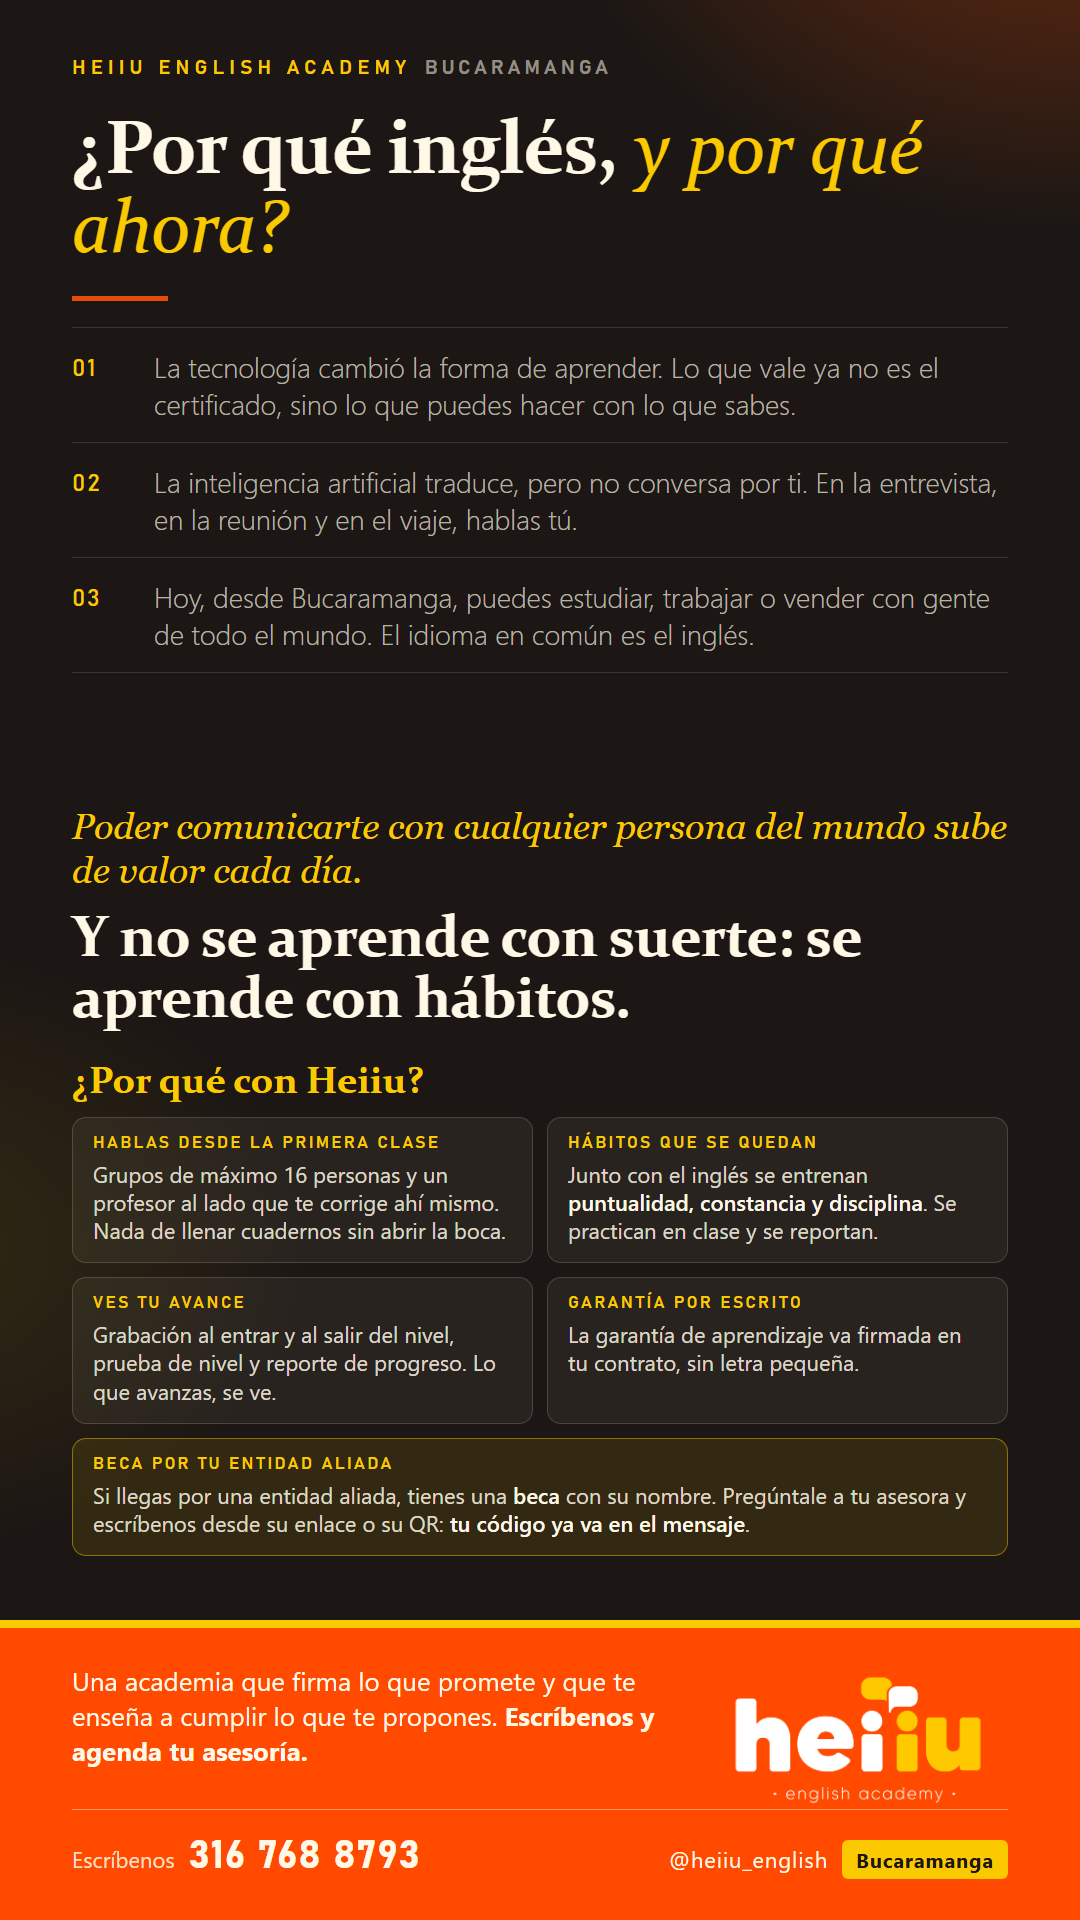
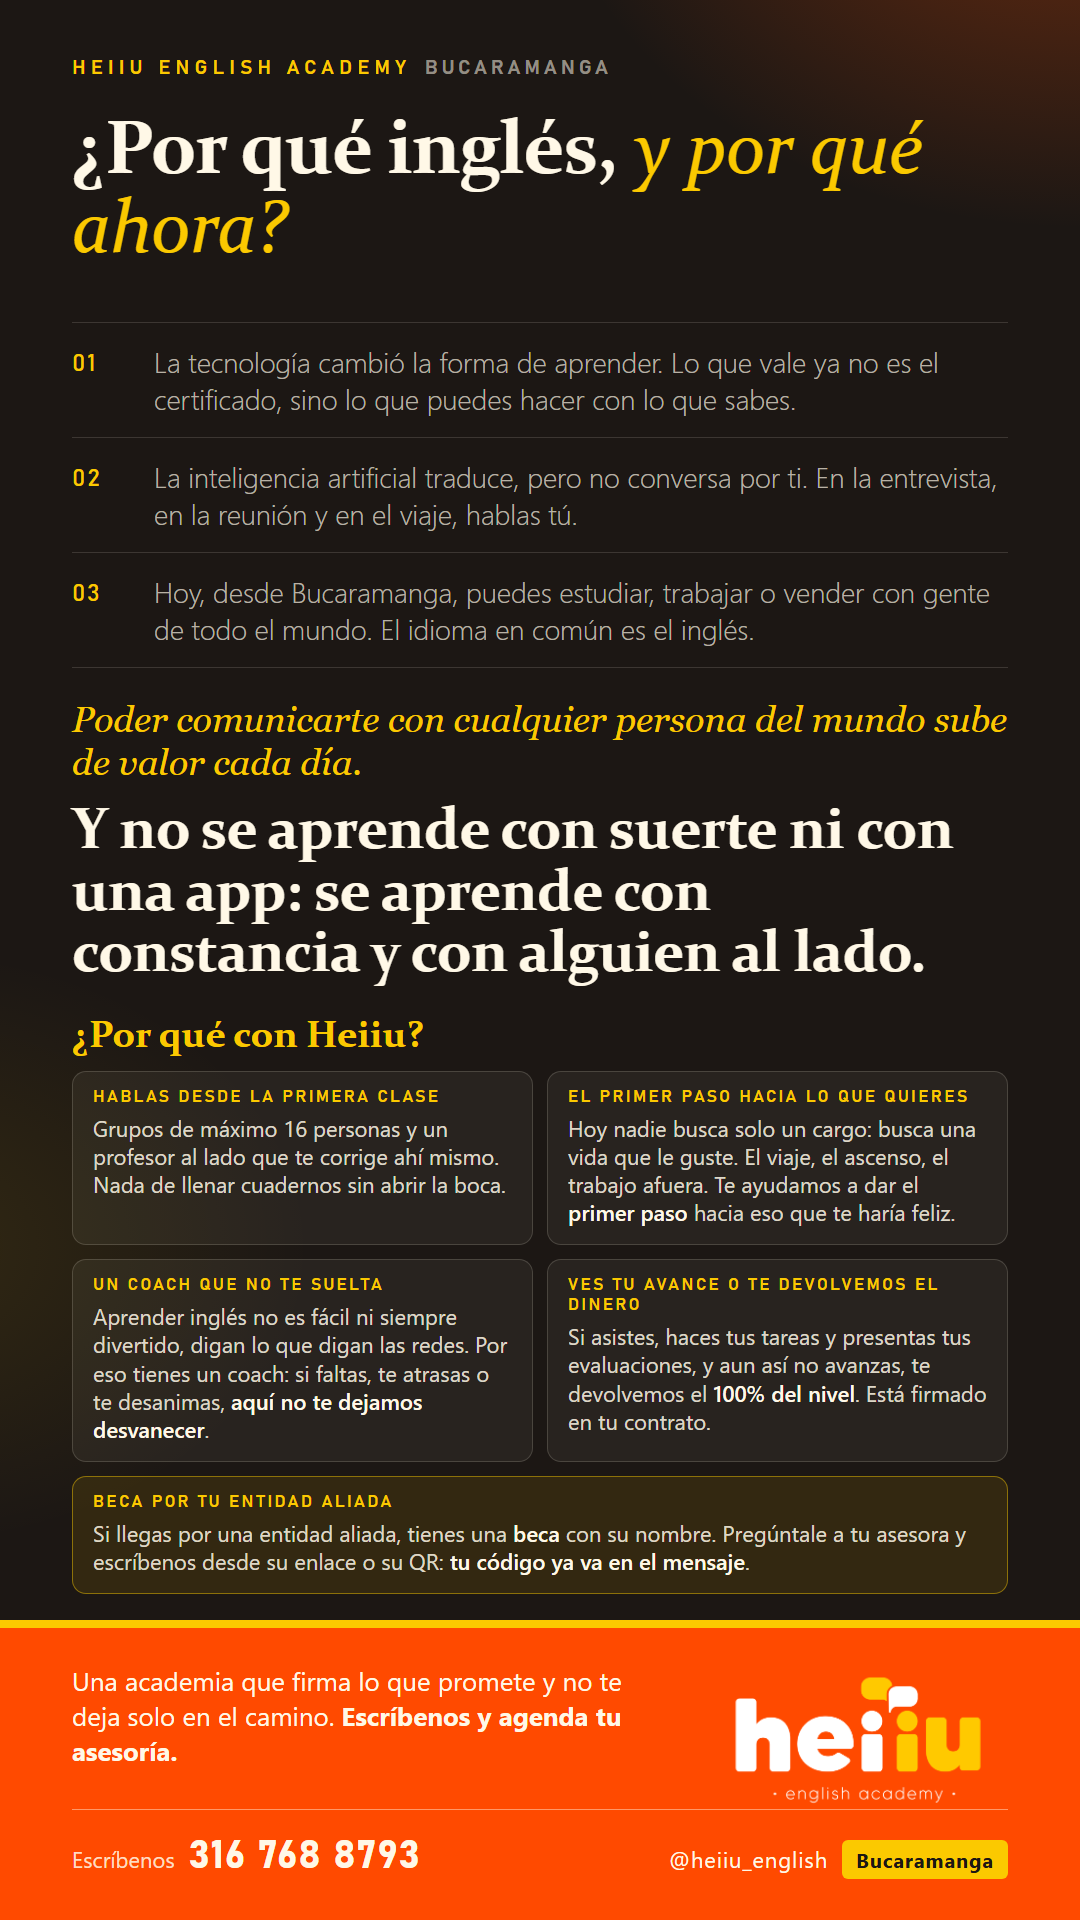
Pieza general asesoras: tarjetas certeras (primer paso hacia lo que quieres, coach que no te suelta, ves tu avance o te devolvemos el dinero segun anexo de garantia v2.3)

diff --git a/generadores/comercial/gen_piezas_conciencia.py b/generadores/comercial/gen_piezas_conciencia.py
@@ -103,14 +103,14 @@ PIEZAS = {
             ('La inteligencia artificial traduce, pero no conversa por ti. En la entrevista, en la reunión y en el viaje, hablas tú.'),
             ('Hoy, desde Bucaramanga, puedes estudiar, trabajar o vender con gente de todo el mundo. El idioma en común es el inglés.')],
         lead='Poder comunicarte con cualquier persona del mundo sube de valor cada día.',
-        big='Y no se aprende con suerte: se aprende con hábitos.',
+        big='Y no se aprende con suerte ni con una app: se aprende con constancia y con alguien al lado.',
         big2='',
         why=[('HABLAS DESDE LA PRIMERA CLASE', 'Grupos de máximo 16 personas y un profesor al lado que te corrige ahí mismo. Nada de llenar cuadernos sin abrir la boca.', False),
-             ('HÁBITOS QUE SE QUEDAN', 'Junto con el inglés se entrenan <b>puntualidad, constancia y disciplina</b>. Se practican en clase y se reportan.', False),
-             ('VES TU AVANCE', 'Grabación al entrar y al salir del nivel, prueba de nivel y reporte de progreso. Lo que avanzas, se ve.', False),
-             ('GARANTÍA POR ESCRITO', 'La garantía de aprendizaje va firmada en tu contrato, sin letra pequeña.', False),
+             ('EL PRIMER PASO HACIA LO QUE QUIERES', 'Hoy nadie busca solo un cargo: busca una vida que le guste. El viaje, el ascenso, el trabajo afuera. Te ayudamos a dar el <b>primer paso</b> hacia eso que te haría feliz.', False),
+             ('UN COACH QUE NO TE SUELTA', 'Aprender inglés no es fácil ni siempre divertido, digan lo que digan las redes. Por eso tienes un coach: si faltas, te atrasas o te desanimas, <b>aquí no te dejamos desvanecer</b>.', False),
+             ('VES TU AVANCE O TE DEVOLVEMOS EL DINERO', 'Si asistes, haces tus tareas y presentas tus evaluaciones, y aun así no avanzas, te devolvemos el <b>100% del nivel</b>. Está firmado en tu contrato.', False),
              ('BECA POR TU ENTIDAD ALIADA', 'Si llegas por una entidad aliada, tienes una <b>beca</b> con su nombre. Pregúntale a tu asesora y escríbenos desde su enlace o su QR: <b>tu código ya va en el mensaje</b>.', True)],
-        band='Una academia que firma lo que promete y que te enseña a cumplir lo que te propones. <b>Escríbenos y agenda tu asesoría.</b>',
+        band='Una academia que firma lo que promete y no te deja solo en el camino. <b>Escríbenos y agenda tu asesoría.</b>',
         band_px=300),
     '1_PROFESIONALES': dict(
         label='PROGRAMA INDIVIDUAL', sub='MÉDICOS · PROFESIONALES · DIRECTIVOS',
